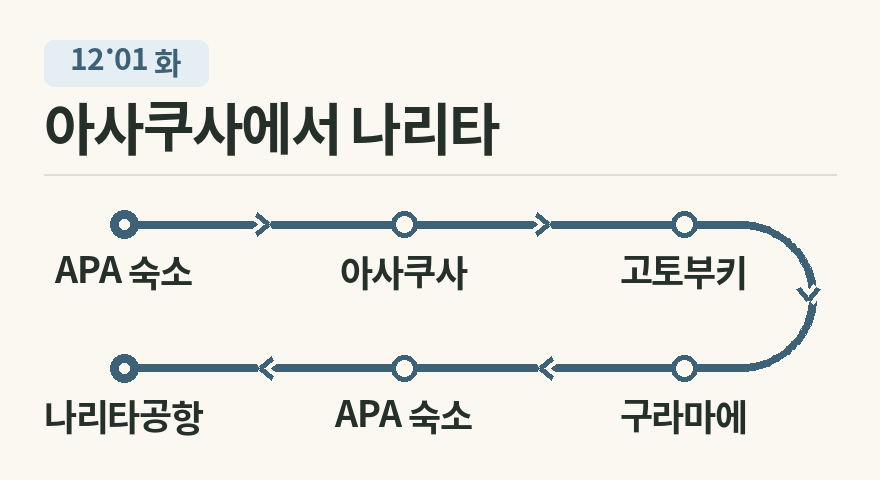
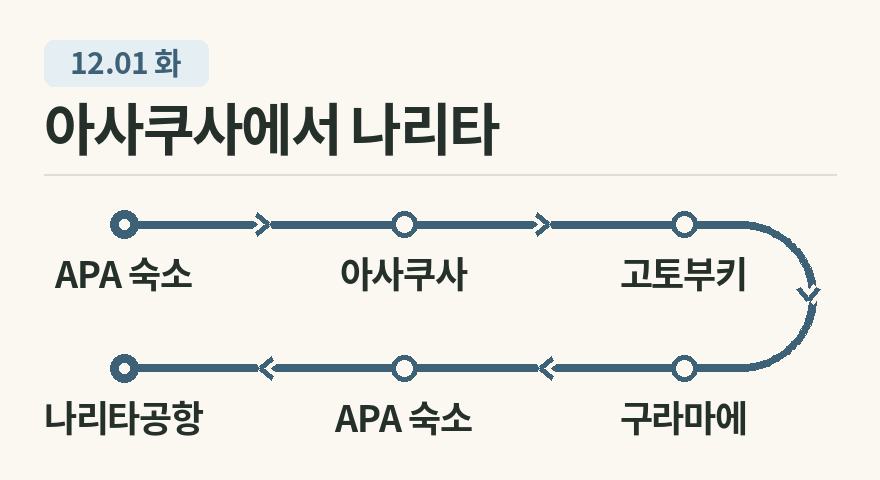
Align route-map typography to shared baselines

diff --git a/index.html b/index.html
@@ -45,5 +45,5 @@
 <section id="sources" class="section"><div class="sectionhead"><div><span class="sectionindex">Source notes / Updated 2026.11.06</span><h2>가격의 기준과 공식 안내</h2></div><p>운임은 현재 공지·경로 검색의 참고금액.<br>출발일의 시간표·예약 화면에서 최종 확인하세요.</p></div><div class="sources" id="sourceslist"></div></section>
 </main><footer class="wrap"><span class="wordmark">our days<em>.</em></span><span>첫 번째 기념일을 위한 도쿄 노트 · 2026<br>계획용 일정 / 예약·결제 기능 없음</span><a href="#">맨 위로 ↑</a></footer>
 <div class="toast" id="toast" role="status" hidden></div>
-<script src="data.js"></script><script src="app.js?v=routes-4"></script>
+<script src="data.js"></script><script src="app.js?v=routes-5"></script>
 </body></html>

diff --git a/app.js b/app.js
@@ -45,7 +45,7 @@
   "APA → 아사쿠사선으로 아사쿠사 → 도보로 고토부키의 nobori와 구라마에의 proto → 아사쿠사선으로 APA에 돌아와 짐 찾기 → 공항철도로 나리타 제3터미널. 16:30 도착 목표."
 ];
  function routeMap(d) {
-  const file = `route-maps/day-${String(d.id + 1).padStart(2, '0')}.png?v=4`;
+  const file = `route-maps/day-${String(d.id + 1).padStart(2, '0')}.png?v=5`;
   return `<figure class="route-map">
    <img src="${file}" width="880" height="480" alt="${esc(routeMapDescriptions[d.id])}" loading="lazy" decoding="async">
    <figcaption><span>이동 순서도 · 축척 없음</span><a href="${file}" target="_blank" rel="noopener noreferrer" aria-label="${d.date} 이동 지도 크게 보기">지도 크게 보기</a></figcaption>
